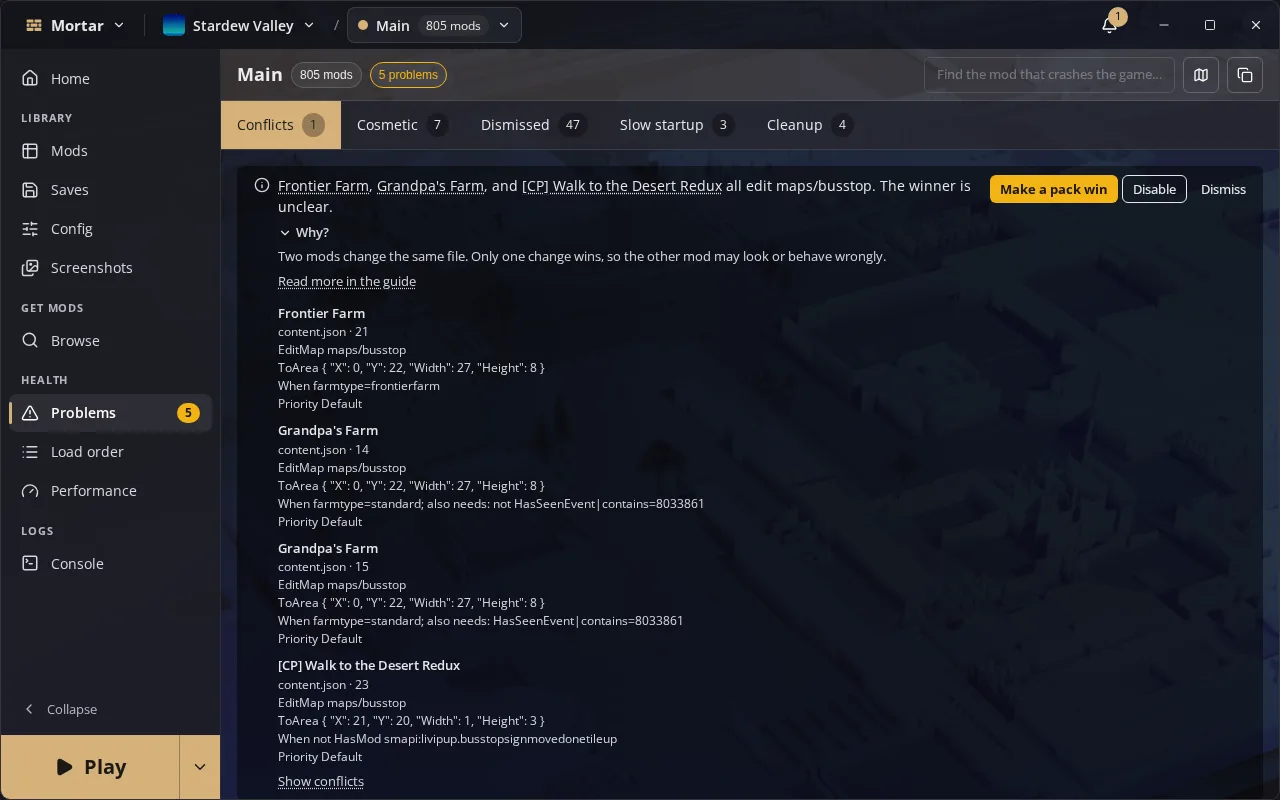
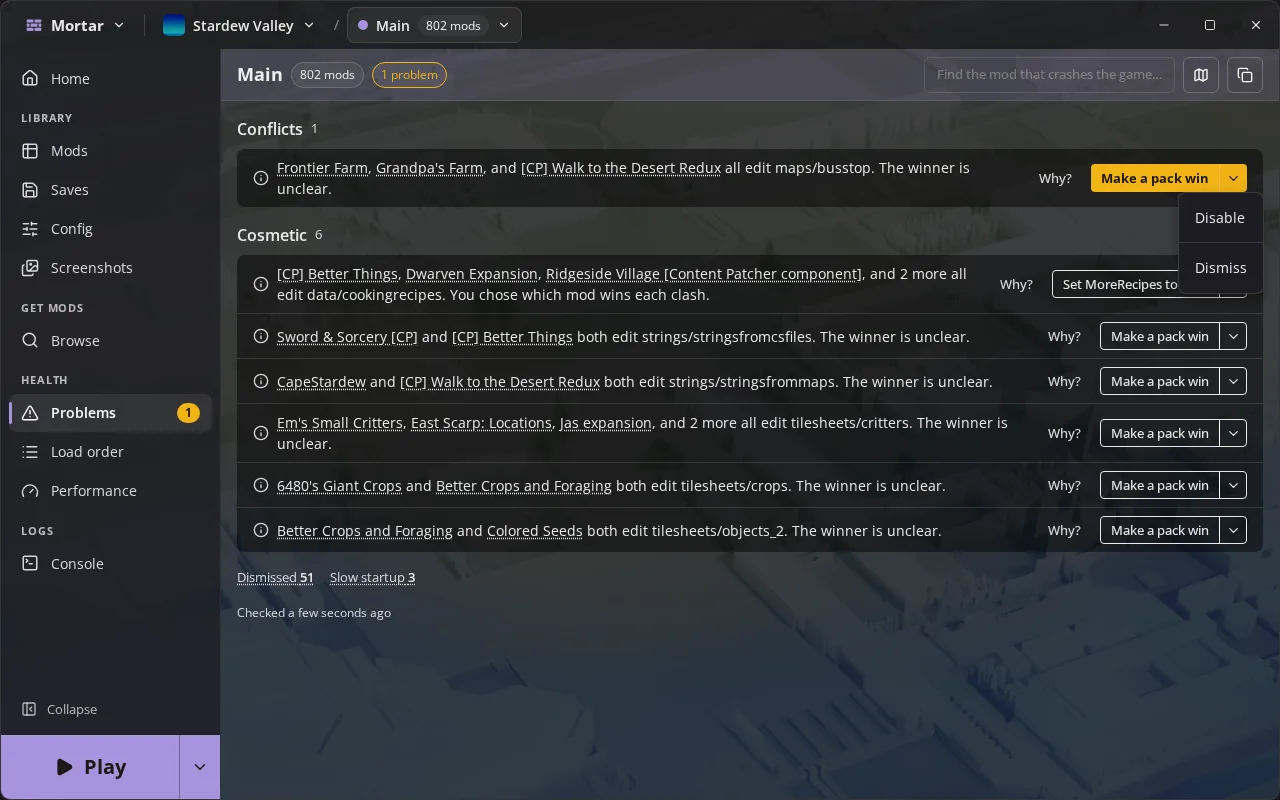
chore(release): 0.3.12 with its news post and the Problems, Language and Graphics pictures
The 0.3.9 post keeps the Problems picture it shipped with.

diff --git a/README.md b/README.md
@@ -44,7 +44,7 @@ Prerequisites (including the `wails3` CLI built from the pinned Wails fork), bui
 ## Screenshots
 
 <table>
-<tr><td align="center"><img src="build/linux/screenshots/problems.png" alt="Problems tab explaining which mod wins each content conflict, with Disable and Make a pack win buttons" width="440"><br><sub>Problems: content conflicts explained, with one-click fixes</sub></td><td align="center"><img src="build/linux/screenshots/performance.png" alt="Performance tab: time to the main menu, each phase of the start, and the slowest mods" width="440"><br><sub>Performance: what each mod costs at startup</sub></td></tr>
+<tr><td align="center"><img src="build/linux/screenshots/problems.png" alt="Problems tab listing conflicts and cosmetic overlaps by section, each with Why? and one fix button whose menu holds Disable and Dismiss" width="440"><br><sub>Problems: every problem on one page, one button to fix each</sub></td><td align="center"><img src="build/linux/screenshots/performance.png" alt="Performance tab: time to the main menu, each phase of the start, and the slowest mods" width="440"><br><sub>Performance: what each mod costs at startup</sub></td></tr>
 <tr><td align="center" colspan="2"><img src="build/linux/screenshots/settings.png" alt="General settings: the antivirus that scans every mod before it is installed" width="600"><br><sub>Every mod scanned by your antivirus before it is installed</sub></td></tr>
 </table>
 

diff --git a/web/src/content/news/mortar-0-3-12.md b/web/src/content/news/mortar-0-3-12.md
@@ -1,0 +1,21 @@
+---
+
+kind: release
+version: 0.3.12
+title: "Problems on one page, Mortar in your language"
+summary: "Every problem section on one page with one button for each fix, Mortar open for translation with a Display language setting, a Graphics setting on Linux, a faster start, and a mod made by hand installs from its zip."
+highlights:
+- area: Problems
+  title: One page, one button each
+  text: Every section is on one page; each problem has its suggested fix on one button, the other fixes in its menu, and Why? beside it.
+  image: /img/problems.webp
+- area: Languages
+  title: Display language
+  text: Mortar follows the system language, and Settings lists a language once part of it is translated. Help translate Mortar opens the project on Weblate.
+  image: /img/language.webp
+- area: Linux
+  title: Graphics
+  text: Smoother scrolling for computers where scrolling is slow or the fans spin up, and Compatible for a window that stays blank.
+  image: /img/graphics.webp
+
+---

diff --git a/web/src/content/news/mortar-0-3-9.md b/web/src/content/news/mortar-0-3-9.md
@@ -7,7 +7,7 @@ highlights:
   - area: Problems
     title: Errors explained
     text: A mod's error names the method that threw and the other mods patching that code.
-    image: /img/problems.webp
+    image: /img/problems-0-3-9.webp
   - area: Downloads
     title: Auto-install folders
     text: Each build of your mod lands in the open profile.
